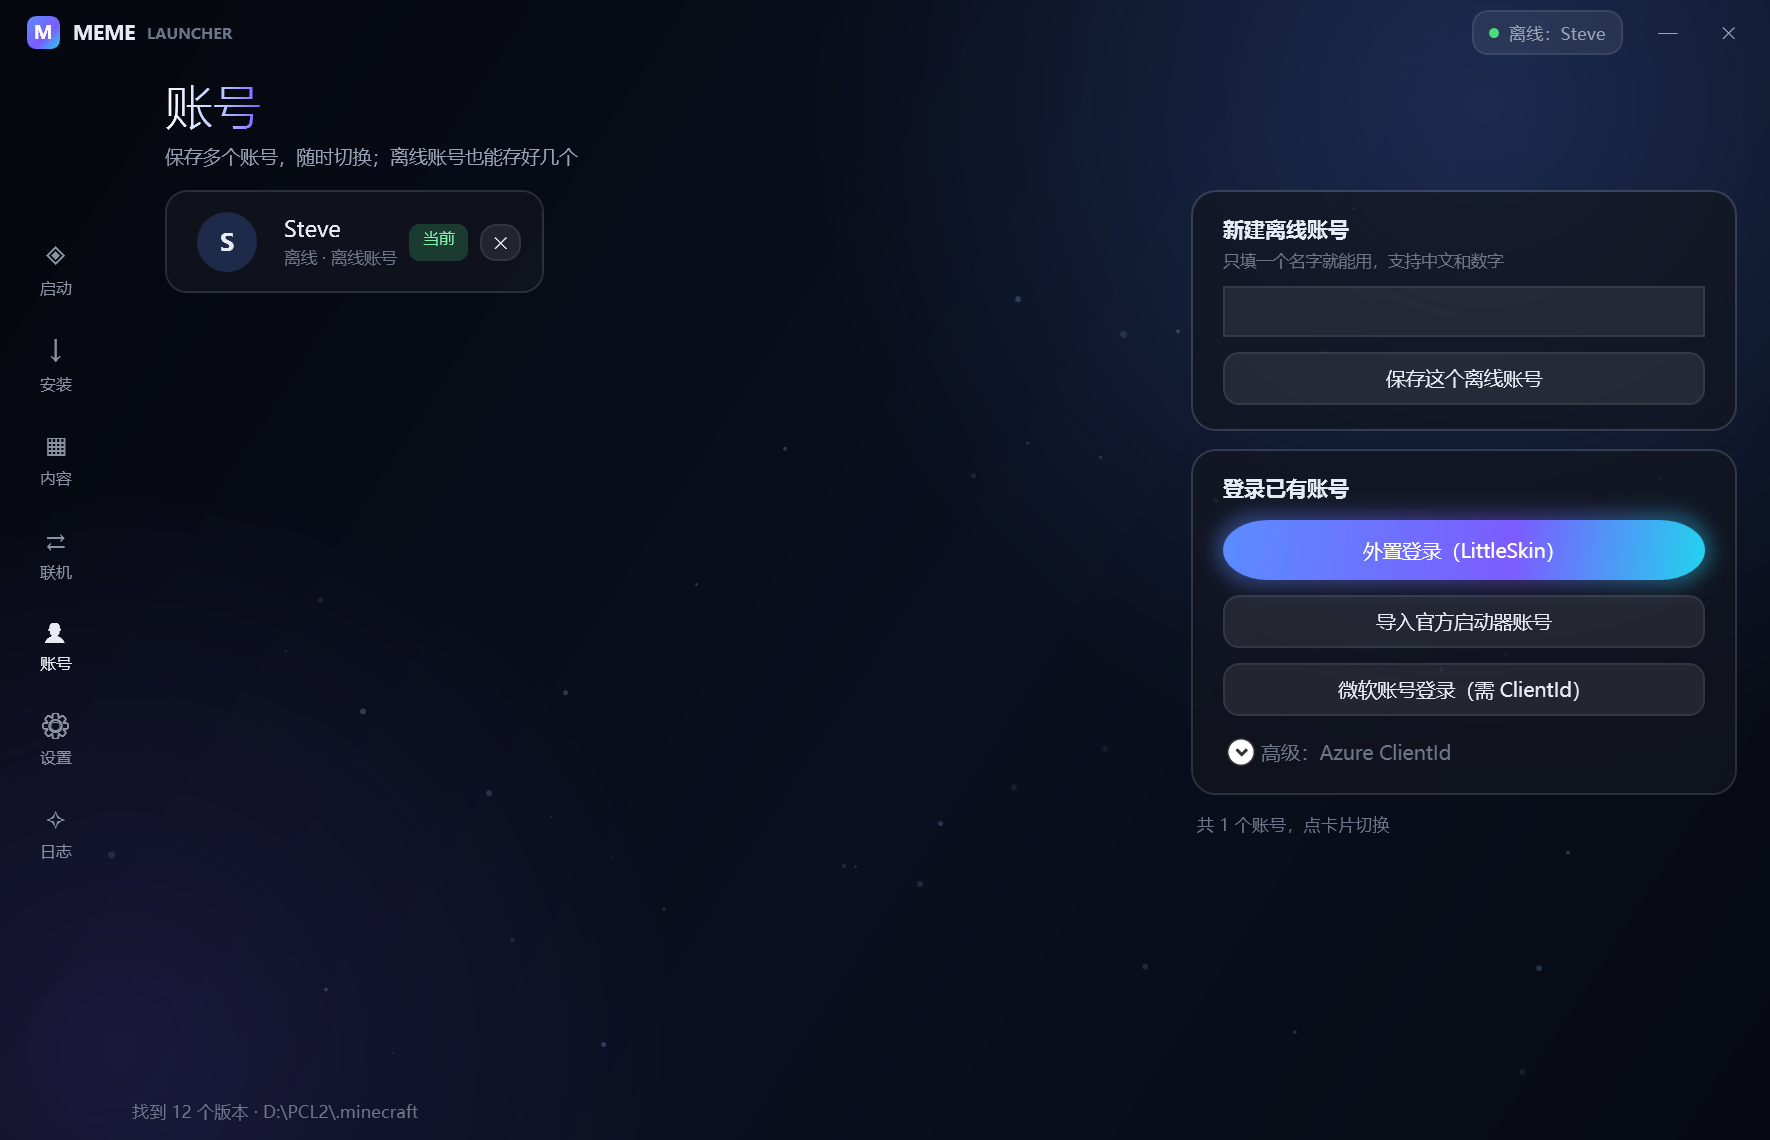
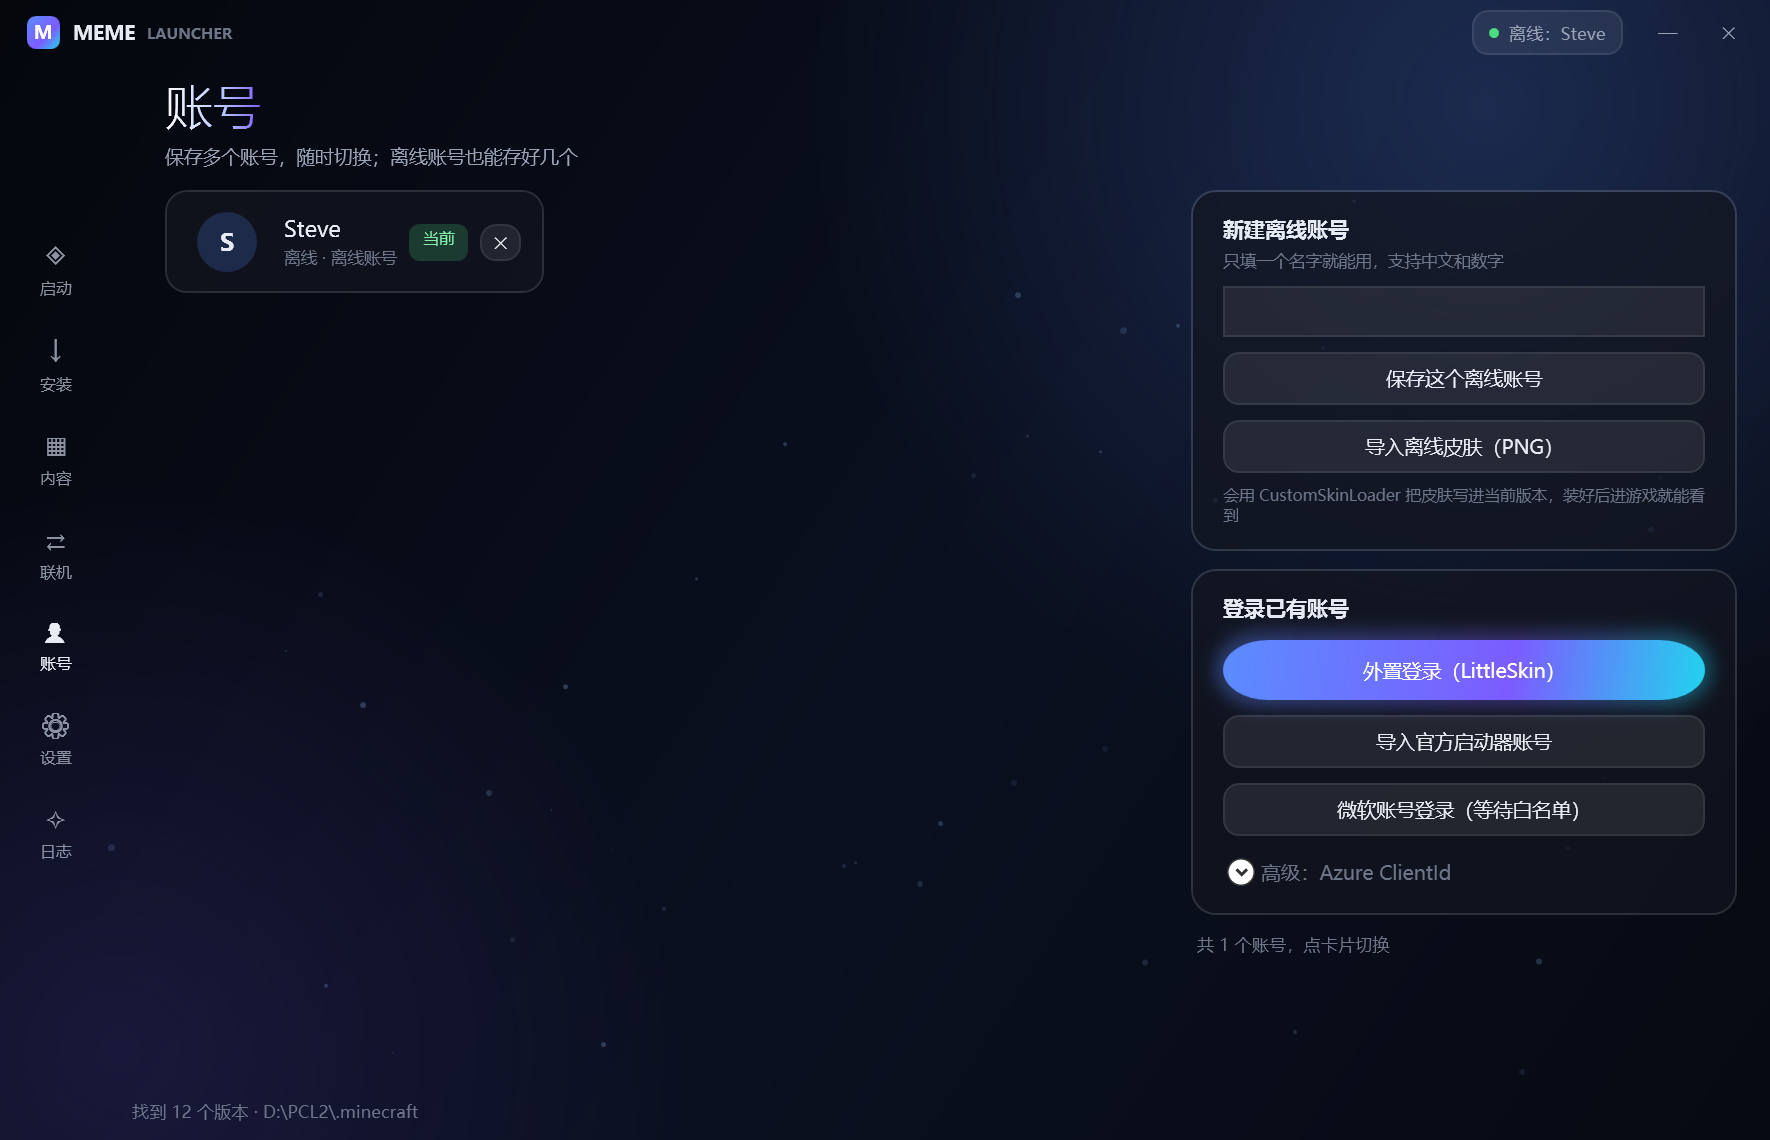
feat: 离线皮肤导入（CustomSkinLoader + LocalSkin）

Changed region(s): [[0.6836, 0.3684, 0.9944, 0.8289]]

diff --git a/src/Aurora.App/MainWindow.xaml b/src/Aurora.App/MainWindow.xaml
@@ -857,6 +857,11 @@
                                         <TextBox x:Name="OfflineNameBox" Height="34"/>
                                         <Button Content="保存这个离线账号" Style="{StaticResource GlassButton}" Margin="0,10,0,0"
                                                 Click="OnAddOfflineAccount"/>
+                                        <Button Content="导入离线皮肤（PNG）" Style="{StaticResource GlassButton}" Margin="0,10,0,0"
+                                                Click="OnImportSkin"/>
+                                        <TextBlock Text="会用 CustomSkinLoader 把皮肤写进当前版本，装好后进游戏就能看到"
+                                                   FontSize="10.5" Foreground="{StaticResource InkFaint}" Margin="0,8,0,0"
+                                                   TextWrapping="Wrap"/>
                                     </StackPanel>
                                 </Border>
 

diff --git a/src/Aurora.Core/Skins/OfflineSkinService.cs b/src/Aurora.Core/Skins/OfflineSkinService.cs
@@ -1,0 +1,186 @@
+using System.Text.Json;
+using System.Text.Json.Nodes;
+
+namespace Aurora.Core.Skins;
+
+public sealed class OfflineSkinResult
+{
+    public string SkinPath { get; init; } = string.Empty;
+    public string ModPath { get; init; } = string.Empty;
+    public string ConfigPath { get; init; } = string.Empty;
+    public bool ModAlreadyExisted { get; init; }
+}
+
+/// <summary>
+/// 离线皮肤：Minecraft 原版不会给离线账号下发皮肤，所以用 CustomSkinLoader 的
+/// LocalSkin 机制——把 png 放进 CustomSkinLoader/LocalSkin/skins/名字.png，
+/// 再保证 mod 和配置就位。
+/// </summary>
+public sealed class OfflineSkinService
+{
+    private const string ProjectSlug = "customskinloader";
+    private const string Api = "https://api.modrinth.com/v2";
+
+    private readonly Net.DownloadClient _client;
+
+    public OfflineSkinService(Net.DownloadClient client) => _client = client;
+
+    public async Task<OfflineSkinResult> ApplyAsync(string pngPath, string playerName, string gameDirectory,
+        string? mcVersion, string? loader, IProgress<Net.InstallProgress>? progress = null,
+        CancellationToken ct = default)
+    {
+        if (!File.Exists(pngPath))
+        {
+            throw new FileNotFoundException("找不到皮肤文件", pngPath);
+        }
+
+        if (!pngPath.EndsWith(".png", StringComparison.OrdinalIgnoreCase))
+        {
+            throw new InvalidOperationException("皮肤必须是 PNG（64x64 或 64x32）");
+        }
+
+        var name = Sanitize(playerName);
+        if (string.IsNullOrEmpty(name))
+        {
+            throw new InvalidOperationException("当前账号没有名字，无法生成皮肤文件");
+        }
+
+        Directory.CreateDirectory(gameDirectory);
+
+        // 1. 保证 CustomSkinLoader 在 mods 里
+        var modResult = await EnsureModAsync(gameDirectory, mcVersion, loader, progress, ct).ConfigureAwait(false);
+
+        // 2. 放皮肤
+        progress?.Report(new Net.InstallProgress { Stage = "皮肤", Message = "写入本地皮肤…" });
+        var skinDir = Path.Combine(gameDirectory, "CustomSkinLoader", "LocalSkin", "skins");
+        Directory.CreateDirectory(skinDir);
+        var target = Path.Combine(skinDir, name + ".png");
+        File.Copy(pngPath, target, overwrite: true);
+
+        // 3. 保证配置里有 LocalSkin
+        var configPath = EnsureConfig(gameDirectory);
+
+        progress?.Report(new Net.InstallProgress
+        {
+            Stage = "皮肤",
+            Done = 1,
+            Total = 1,
+            Message = $"已应用：{name}.png",
+        });
+
+        return new OfflineSkinResult
+        {
+            SkinPath = target,
+            ModPath = modResult.Path,
+            ConfigPath = configPath,
+            ModAlreadyExisted = modResult.Existed,
+        };
+    }
+
+    private async Task<(string Path, bool Existed)> EnsureModAsync(string gameDir, string? mcVersion, string? loader,
+        IProgress<Net.InstallProgress>? progress, CancellationToken ct)
+    {
+        var modsDir = Path.Combine(gameDir, "mods");
+        Directory.CreateDirectory(modsDir);
+
+        var existing = Directory.GetFiles(modsDir, "*.jar")
+            .FirstOrDefault(f => Path.GetFileName(f).Contains("CustomSkinLoader", StringComparison.OrdinalIgnoreCase));
+        if (existing != null)
+        {
+            return (existing, true);
+        }
+
+        progress?.Report(new Net.InstallProgress { Stage = "皮肤", Message = "下载 CustomSkinLoader…" });
+
+        var loaderName = string.IsNullOrEmpty(loader) || loader == "vanilla" ? "fabric" : loader;
+        var url = $"{Api}/project/{ProjectSlug}/version";
+        var query = new List<string>();
+        if (!string.IsNullOrEmpty(mcVersion))
+        {
+            query.Add("game_versions=" + Uri.EscapeDataString($"[\"{mcVersion}\"]"));
+        }
+
+        query.Add("loaders=" + Uri.EscapeDataString($"[\"{loaderName}\"]"));
+        if (query.Count > 0)
+        {
+            url += "?" + string.Join("&", query);
+        }
+
+        var json = await _client.GetStringAsync(url, ct).ConfigureAwait(false);
+        using var doc = JsonDocument.Parse(json);
+        if (doc.RootElement.ValueKind != JsonValueKind.Array || doc.RootElement.GetArrayLength() == 0)
+        {
+            throw new InvalidOperationException($"Modrinth 上没有适配 {mcVersion} / {loaderName} 的 CustomSkinLoader");
+        }
+
+        var version = doc.RootElement[0];
+        var file = version.GetProperty("files")[0];
+        var fileName = file.GetProperty("filename").GetString() ?? "CustomSkinLoader.jar";
+        var download = file.GetProperty("url").GetString()
+                       ?? throw new InvalidOperationException("拿不到下载地址");
+
+        var target = Path.Combine(modsDir, fileName);
+        await _client.DownloadFileAsync(download, target, ct: ct).ConfigureAwait(false);
+        return (target, false);
+    }
+
+    /// <summary>确保 CustomSkinLoader.json 的 loadlist 里有 LocalSkin。</summary>
+    private static string EnsureConfig(string gameDir)
+    {
+        var configDir = Path.Combine(gameDir, "CustomSkinLoader");
+        Directory.CreateDirectory(configDir);
+        var configPath = Path.Combine(configDir, "CustomSkinLoader.json");
+
+        JsonObject root;
+        if (File.Exists(configPath))
+        {
+            try
+            {
+                root = JsonNode.Parse(File.ReadAllText(configPath)) as JsonObject ?? new JsonObject();
+            }
+            catch
+            {
+                root = new JsonObject();
+            }
+        }
+        else
+        {
+            root = new JsonObject();
+        }
+
+        root["version"] ??= "14.19";
+        root["enableDynamicSkull"] ??= true;
+        root["enableTransparentSkin"] ??= true;
+        root["enableCape"] ??= true;
+
+        var loadlist = root["loadlist"] as JsonArray ?? new JsonArray();
+        var hasLocal = loadlist.Any(node =>
+            node is JsonObject o &&
+            string.Equals(o["type"]?.GetValue<string>(), "LocalSkin", StringComparison.OrdinalIgnoreCase));
+
+        if (!hasLocal)
+        {
+            loadlist.Add(new JsonObject
+            {
+                ["name"] = "LocalSkin",
+                ["type"] = "LocalSkin",
+                ["root"] = "CustomSkinLoader/LocalSkin",
+            });
+            root["loadlist"] = loadlist;
+        }
+
+        File.WriteAllText(configPath, root.ToJsonString(new JsonSerializerOptions { WriteIndented = true }));
+        return configPath;
+    }
+
+    private static string Sanitize(string name)
+    {
+        var cleaned = name.Trim();
+        foreach (var bad in Path.GetInvalidFileNameChars())
+        {
+            cleaned = cleaned.Replace(bad, '_');
+        }
+
+        return cleaned;
+    }
+}

diff --git a/src/Aurora.Cli/Program.cs b/src/Aurora.Cli/Program.cs
@@ -65,6 +65,8 @@ internal static class Program
                 return await SearchAsync(service, positional, flags).ConfigureAwait(false);
             case "pack":
                 return await PackAsync(service, positional, flags).ConfigureAwait(false);
+            case "skin":
+                return await SkinAsync(service, positional, flags).ConfigureAwait(false);
             default:
                 PrintHelp();
                 return 0;
@@ -473,6 +475,32 @@ internal static class Program
         return 0;
     }
 
+    private static async Task<int> SkinAsync(LauncherService service, List<string> positional,
+        Dictionary<string, string> flags)
+    {
+        var png = positional.ElementAtOrDefault(0);
+        var name = positional.ElementAtOrDefault(1);
+        if (string.IsNullOrEmpty(png) || string.IsNullOrEmpty(name))
+        {
+            Console.Error.WriteLine("用法: aurora skin <png> <账号名> --dir <目标目录> [--mc 26.2] [--loader fabric]");
+            return 1;
+        }
+
+        var dir = flags.TryGetValue("dir", out var d) ? d : service.Settings.GameDirectory;
+        var mc = flags.TryGetValue("mc", out var m) ? m : null;
+        var loader = flags.TryGetValue("loader", out var l) ? l : "fabric";
+
+        Console.WriteLine($"目标目录: {dir}");
+        var progress = new Progress<InstallProgress>(p => Console.WriteLine($"  [{p.Stage}] {p.Message}"));
+        var result = await service.CreateOfflineSkinService()
+            .ApplyAsync(png, name, dir, mc, loader, progress).ConfigureAwait(false);
+
+        Console.WriteLine("皮肤: " + result.SkinPath);
+        Console.WriteLine("Mod : " + result.ModPath + (result.ModAlreadyExisted ? " (已存在)" : " (新装)"));
+        Console.WriteLine("配置: " + result.ConfigPath);
+        return 0;
+    }
+
     private static void PrintHelp()
     {
         Console.WriteLine(@"Aurora Launcher CLI (框架/自检工具)
@@ -489,6 +517,7 @@ internal static class Program
   aurora loader-install <类型> <mc> [版本]
   aurora search <mod|modpack|shader|resourcepack> <关键词> [--mc 1.21.1] [--loader fabric] [--cf]
   aurora pack <关键词> [--mc 1.21.1] [--loader fabric]
+  aurora skin <png> <账号名> --dir <目录> [--mc 26.2] [--loader fabric]
 
 公共参数:
   --game <目录>                      临时指定 .minecraft 目录");

diff --git a/src/Aurora.App/MainWindow.xaml.cs b/src/Aurora.App/MainWindow.xaml.cs
@@ -28,7 +28,7 @@ public partial class MainWindow : Window
     private List<RemoteVersion> _mcVersions = new();
     private ContentItem? _selectedContent;
     private CancellationTokenSource? _loginCts;
-    private const string AppVersion = "0.5.1";
+    private const string AppVersion = "0.5.2";
     private bool _updatesLoaded;
     private ReleaseInfo? _pendingRelease;
     private readonly SakuraFrp _tunnel = new();
@@ -1453,6 +1453,52 @@ public partial class MainWindow : Window
         };
 
         return card;
+    }
+
+    private async void OnImportSkin(object sender, RoutedEventArgs e)
+    {
+        var account = _service.ActiveAccount;
+        if (account == null)
+        {
+            AccountPageStatus.Text = "先选一个账号，皮肤会按账号名写进去";
+            return;
+        }
+
+        var dialog = new Microsoft.Win32.OpenFileDialog
+        {
+            Title = "选择皮肤 PNG（64x64 或 64x32）",
+            Filter = "PNG 图片|*.png",
+        };
+        if (dialog.ShowDialog() != true)
+        {
+            return;
+        }
+
+        var target = VersionList.SelectedItem as VersionCard;
+        var resolved = target == null ? null : _service.Resolve(target.Summary.Id);
+        if (resolved == null)
+        {
+            AccountPageStatus.Text = "先在「启动」页选一个版本，皮肤要装进那个版本";
+            return;
+        }
+
+        try
+        {
+            AccountPageStatus.Text = "正在安装皮肤…";
+            var gameDir = _service.GameDirectoryFor(resolved);
+            var progress = new Progress<InstallProgress>(p => AccountPageStatus.Text = $"{p.Stage} · {p.Message}");
+
+            var result = await _service.CreateOfflineSkinService().ApplyAsync(
+                dialog.FileName, account.Name, gameDir, resolved.ClientVersion, resolved.Loader, progress);
+
+            AccountPageStatus.Text = result.ModAlreadyExisted
+                ? $"皮肤已应用：{account.Name}.png（CustomSkinLoader 已在）"
+                : $"皮肤已应用，并装好了 CustomSkinLoader：{account.Name}.png";
+        }
+        catch (Exception ex)
+        {
+            AccountPageStatus.Text = "导入皮肤失败: " + ex.Message;
+        }
     }
 
     private void OnAddOfflineAccount(object sender, RoutedEventArgs e)

diff --git a/src/Aurora.Core/LauncherService.cs b/src/Aurora.Core/LauncherService.cs
@@ -148,6 +148,8 @@ public sealed class LauncherService
 
     public UpdateChecker CreateUpdateChecker() => new(SharedDownloader);
 
+    public Skins.OfflineSkinService CreateOfflineSkinService() => new(SharedDownloader);
+
     public CurseForgeClient CreateCurseForge() => new(Settings.CurseForgeApiKey);
 
     public IReadOnlyList<JavaRuntime> ScanJava()
